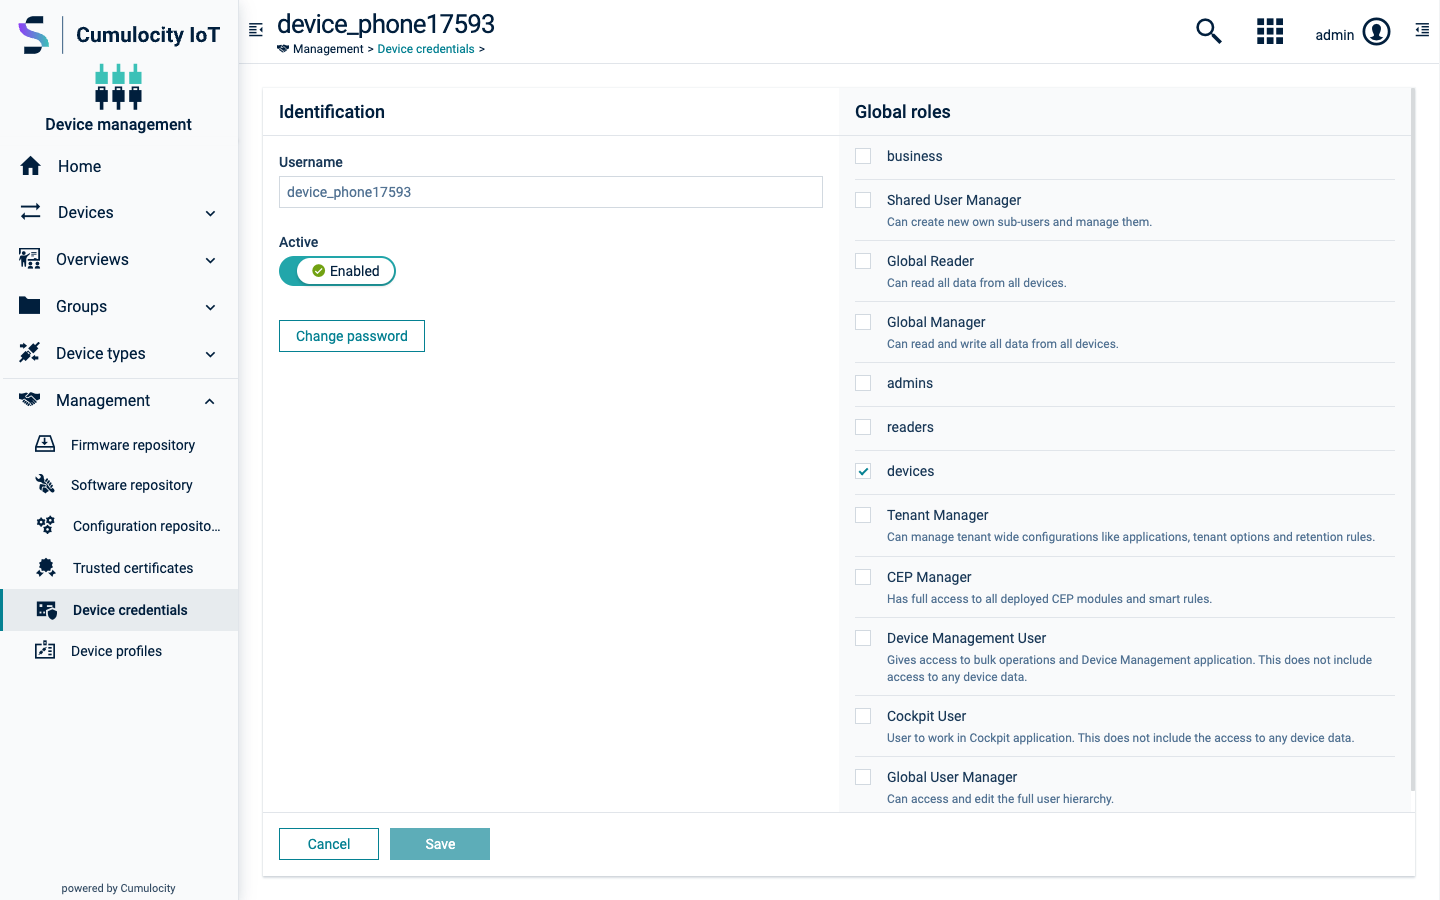
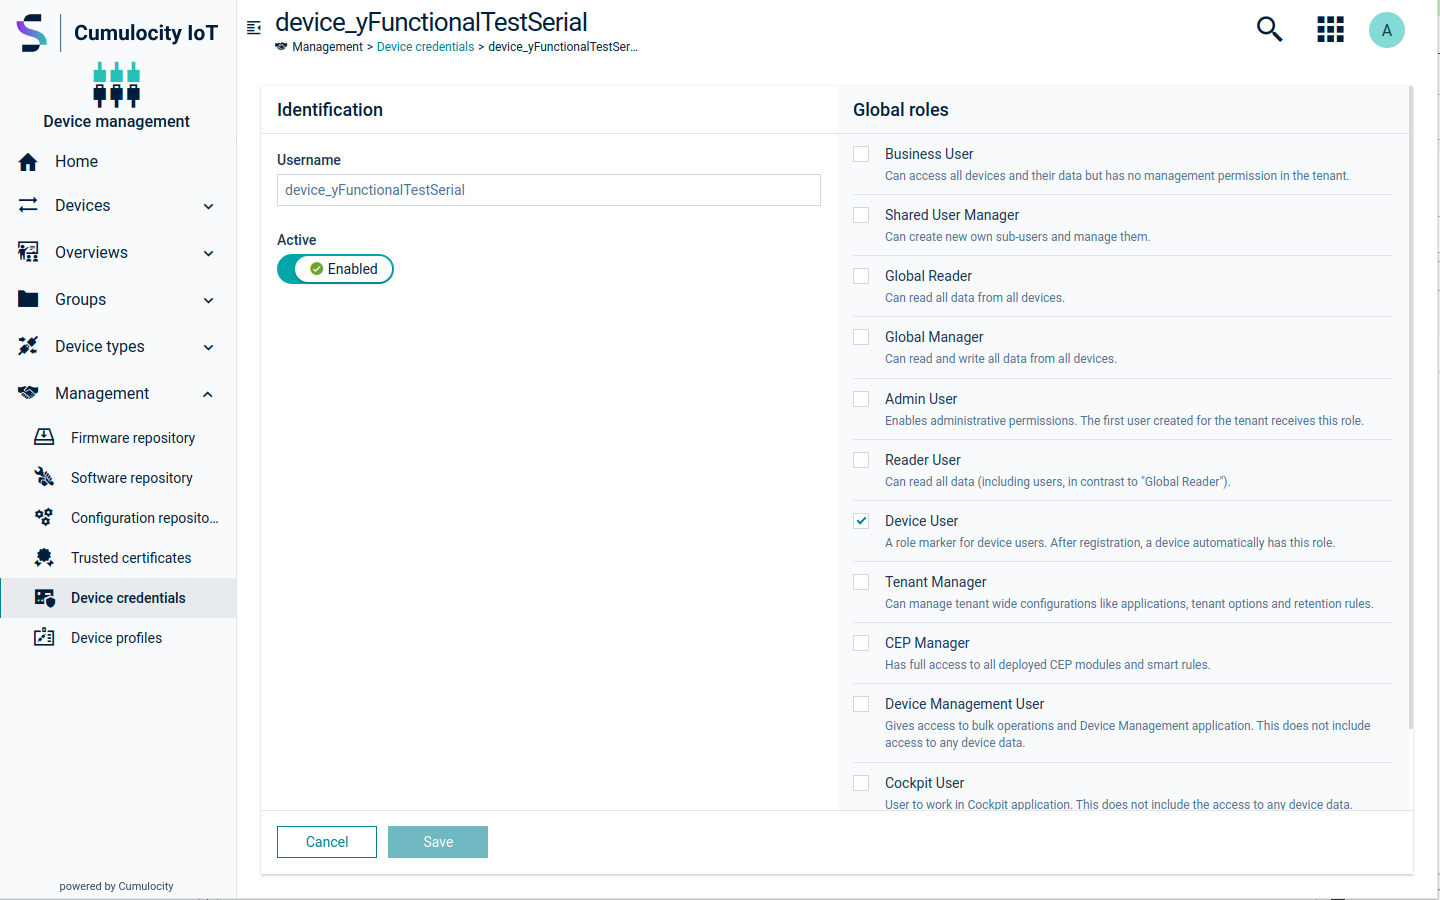
[MTM-59217] Update device credentials page after cutting feature allowing explicit updating device password.

diff --git a/content/device-management-application/managing-device-data-bundle/managing-device-credentials.md b/content/device-management-application/managing-device-data-bundle/managing-device-credentials.md
@@ -20,17 +20,17 @@ The **Device credentials** page lists all credentials that have been generated f
 
 The roles for the device will be updated accordingly.
 
-### To edit device credentials {#to-edit-device-credentials}
+### Optionally to edit device details {#to-edit-device-user}
 
 1. Click the menu icon <i class="dlt-c8y-icon-menu-vertical text-muted icon-20"></i> at the right of a device credentials entry and then click **Edit** to open the device details.
 
-2. In the details page, you may disable/enable a device by clicking the **Active** toggle, change the password for a device, or assign or remove permissions by selecting/deselecting roles in the **Global roles** list.
+2. In the details page, you may disable/enable a device by clicking the **Active** toggle, or assign or remove permissions by selecting/deselecting roles in the **Global roles** list.
 
 	![Device credentials details](/images/users-guide/DeviceManagement/devmgmt-device-credentials-details.png)
 
 3. Click **Save**.
 
-The device credentials will be updated accordingly.
+The device will be updated accordingly.
 
 ### To disable device credentials {#to-disable-device-credentials}
 
